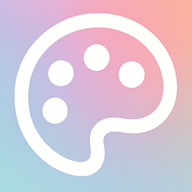
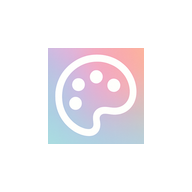
feat: improve PWA install UX and fix race conditions
- Add 25% padding to PWA icons for better dock appearance
- Remove maskable purpose from manifest to prevent OS masking issues
- Fix race condition where promptTimedOut wasn't reset when beforeinstallprompt fired late
- Add promptConsumed state to prevent pulsing animation after user declines install
- Show install CTA for signed-in users with 'continue in browser' fallback
- Only show paint particles animation when paintbrush icon is displayed
- Replace aggressive bounce animation with subtle-bob for download icon

diff --git a/src/pages/Home/components/HeroSection.tsx b/src/pages/Home/components/HeroSection.tsx
@@ -50,7 +50,7 @@ const CTAContent: React.FC<CTAContentProps> = ({ icon, text, isWaiting }) => {
   const renderIcon = () => {
     switch (displayedIcon) {
       case 'download':
-        return <Download className={`w-full h-full text-white ${isWaiting ? 'animate-bounce' : ''}`} />;
+        return <Download className={`w-full h-full text-white ${isWaiting ? 'animate-subtle-bob' : ''}`} />;
       case 'plus':
         return <Plus className="w-full h-full text-white" />;
       case 'external':
@@ -73,7 +73,7 @@ const CTAContent: React.FC<CTAContentProps> = ({ icon, text, isWaiting }) => {
   return (
     <>
       <div className="relative">
-        <PaintParticles />
+        {icon === 'paintbrush' && <PaintParticles />}
         <div 
           className={`w-5 h-5 relative z-10 transition-all duration-150 ${
             isTransitioning ? 'opacity-0 scale-75' : 'opacity-100 scale-100'
@@ -387,40 +387,53 @@ export const HeroSection: React.FC<HeroSectionProps> = ({
             {/* CTA button below hero - Start -140px (UP) to simulate coming from bar */}                                                                
             <div style={getFadeStyle(2.5, -140, false)} className="pt-2 pb-6 overflow-visible">
               {session ? (
-                // User is logged in - single button with smooth transitions
-                (() => {
-                  const showOpenInApp = !platformInstall.isStandalone && (platformInstall.isAppInstalled || platformInstall.promptTimedOut);
-                  return (
-                    <div className="flex flex-col items-center">
-                      <div className="group">
-                        <button
-                          onClick={() => showOpenInApp ? setShowInstallModal(true) : navigate('/tools')}
-                          className="flex items-center space-x-2 px-6 py-4 bg-gradient-to-r from-wes-vintage-gold to-wes-coral rounded-full border-2 border-wes-vintage-gold/40 hover:border-wes-vintage-gold/60 shadow-wes-vintage hover:shadow-wes-hover text-white text-lg font-light mx-auto relative overflow-hidden"
-                          style={{ transition: 'transform 0.3s ease-in-out, border-color 0.3s ease-in-out, box-shadow 0.5s ease-in-out' }}
-                        >
-                          <div className="absolute -bottom-1/2 -left-1/2 w-1/2 h-[200%] group-hover:animate-pulse-sweep bg-gradient-to-r from-transparent via-wes-vintage-gold/40 to-transparent pointer-events-none -rotate-45" />
-                          <CTAContent 
-                            icon={showOpenInApp ? 'external' : 'paintbrush'} 
-                            text={showOpenInApp ? 'Open Reigh App' : 'Go to Tools'} 
-                          />
-                        </button>
-                      </div>
-                      {/* Fixed height container - no layout shift */}
-                      <div className="h-8 flex items-center justify-center">
-                        <button
-                          onClick={() => navigate('/tools')}
-                          className={`text-xs text-muted-foreground/50 hover:text-muted-foreground transition-all duration-500 ease-out ${
-                            showOpenInApp 
-                              ? 'opacity-100 translate-y-0' 
-                              : 'opacity-0 -translate-y-2 pointer-events-none'
-                          }`}
-                        >
-                          or continue in browser
-                        </button>
-                      </div>
-                    </div>
-                  );
-                })()
+                // User is logged in - show install CTA if available, otherwise go to tools
+                <div className="flex flex-col items-center gap-3">
+                  <div className="group">
+                    <button
+                      onClick={async () => {
+                        if (platformInstall.showInstallCTA) {
+                          if (platformInstall.canInstall) {
+                            const installed = await platformInstall.triggerInstall();
+                            if (!installed) {
+                              setShowInstallModal(true);
+                            }
+                          } else {
+                            setShowInstallModal(true);
+                          }
+                        } else {
+                          navigate('/tools');
+                        }
+                      }}
+                      className={`flex items-center space-x-2 px-6 py-4 bg-gradient-to-r from-wes-vintage-gold to-wes-coral rounded-full border-2 border-wes-vintage-gold/40 hover:border-wes-vintage-gold/60 shadow-wes-vintage hover:shadow-wes-hover text-white text-lg font-light mx-auto relative overflow-hidden ${
+                        platformInstall.isWaitingForPrompt ? 'animate-pulse' : ''
+                      }`}
+                      style={{ transition: 'transform 0.3s ease-in-out, border-color 0.3s ease-in-out, box-shadow 0.5s ease-in-out' }}
+                    >
+                      <div className="absolute -bottom-1/2 -left-1/2 w-1/2 h-[200%] group-hover:animate-pulse-sweep bg-gradient-to-r from-transparent via-wes-vintage-gold/40 to-transparent pointer-events-none -rotate-45" />
+                      <CTAContent 
+                        icon={platformInstall.showInstallCTA ? platformInstall.ctaIcon : 'paintbrush'}
+                        text={platformInstall.showInstallCTA ? platformInstall.ctaText : 'Go to Tools'}
+                        isWaiting={platformInstall.isWaitingForPrompt}
+                      />
+                    </button>
+                  </div>
+                  {/* Show secondary browser option when install CTA is showing */}
+                  <div 
+                    className={`transition-all duration-300 ${
+                      platformInstall.showInstallCTA 
+                        ? 'opacity-100 translate-y-0' 
+                        : 'opacity-0 -translate-y-2 pointer-events-none h-0'
+                    }`}
+                  >
+                    <button
+                      onClick={() => navigate('/tools')}
+                      className="text-xs text-muted-foreground/50 hover:text-muted-foreground transition-colors"
+                    >
+                      or continue in browser
+                    </button>
+                  </div>
+                </div>
               ) : (
                 // Not logged in - show install CTA or Discord sign-in with smooth transitions
                 <div className="flex flex-col items-center gap-3">
@@ -483,7 +496,7 @@ export const HeroSection: React.FC<HeroSectionProps> = ({
               platform={platformInstall.platform}
               browser={platformInstall.browser}
               instructions={platformInstall.installInstructions}
-              isAppInstalled={platformInstall.isAppInstalled || platformInstall.promptTimedOut}
+              isAppInstalled={platformInstall.isAppInstalled}
               isSignedIn={!!session}
               onFallbackToDiscord={session ? () => navigate('/tools') : handleDiscordSignIn}
             />

diff --git a/src/shared/hooks/usePlatformInstall.ts b/src/shared/hooks/usePlatformInstall.ts
@@ -60,6 +60,8 @@ export function usePlatformInstall(): PlatformInstallState {
   const [isStandalone, setIsStandalone] = useState(checkIsStandalone);
   const [promptTimedOut, setPromptTimedOut] = useState(false);
   const [isAppInstalled, setIsAppInstalled] = useState(false);
+  // Track if the install prompt was already shown and dismissed/declined
+  const [promptConsumed, setPromptConsumed] = useState(false);
   
   // Detect platform
   const platform = useMemo<Platform>(() => {
@@ -167,6 +169,9 @@ export function usePlatformInstall(): PlatformInstallState {
       setDeferredPrompt(e);
       // Clear timeout since we got the prompt
       if (timeoutId) clearTimeout(timeoutId);
+      // Reset states in case they were set before this event
+      setPromptTimedOut(false);
+      setPromptConsumed(false);
     };
     
     const handleAppInstalled = () => {
@@ -215,8 +220,9 @@ export function usePlatformInstall(): PlatformInstallState {
     if (deferredPrompt) return false; // Already have it
     if (promptTimedOut) return false; // Timed out waiting
     if (isAppInstalled) return false; // Already installed
+    if (promptConsumed) return false; // User already saw and dismissed the prompt
     return isDesktopChromium;
-  }, [isStandalone, deferredPrompt, promptTimedOut, isAppInstalled, isDesktopChromium]);
+  }, [isStandalone, deferredPrompt, promptTimedOut, isAppInstalled, promptConsumed, isDesktopChromium]);
   
   // Determine install method
   const installMethod = useMemo<InstallMethod>(() => {
@@ -345,9 +351,12 @@ export function usePlatformInstall(): PlatformInstallState {
         deferredPrompt.prompt();
         const { outcome } = await deferredPrompt.userChoice;
         setDeferredPrompt(null);
+        // Mark prompt as consumed so we don't show "waiting" state after decline
+        setPromptConsumed(true);
         return outcome === 'accepted';
       } catch (error) {
         console.error('Error installing PWA:', error);
+        setPromptConsumed(true);
         return false;
       }
     }

diff --git a/tailwind.config.ts b/tailwind.config.ts
@@ -519,6 +519,10 @@ export default {
           '0%, 100%': { transform: 'scale(1)', opacity: '1' },
           '50%': { transform: 'scale(1.1)', opacity: '0.8' },
         },
+        'subtle-bob': {
+          '0%, 100%': { transform: 'translateY(0)' },
+          '50%': { transform: 'translateY(-2px)' },
+        },
         'gifting-motion': {
           '0%, 100%': { transform: 'translateY(0) rotate(0deg)' },
           '25%': { transform: 'translateY(-2px) rotate(-5deg)' },
@@ -675,6 +679,7 @@ export default {
         'paper-plane-zigzag-h': 'paper-plane-zigzag-h 22s ease-in-out infinite',
         'paper-plane-zigzag-v': 'paper-plane-zigzag-v 22s ease-in-out infinite',
         'brain-pulse': 'brain-pulse 2s ease-in-out infinite',
+        'subtle-bob': 'subtle-bob 1.5s ease-in-out infinite',
         'gifting-motion': 'gifting-motion 3s ease-in-out infinite',
         'pulse-glow': 'pulse-glow 2s ease-in-out infinite',
         'pulse-breathe': 'pulse-breathe 3s ease-in-out infinite',
